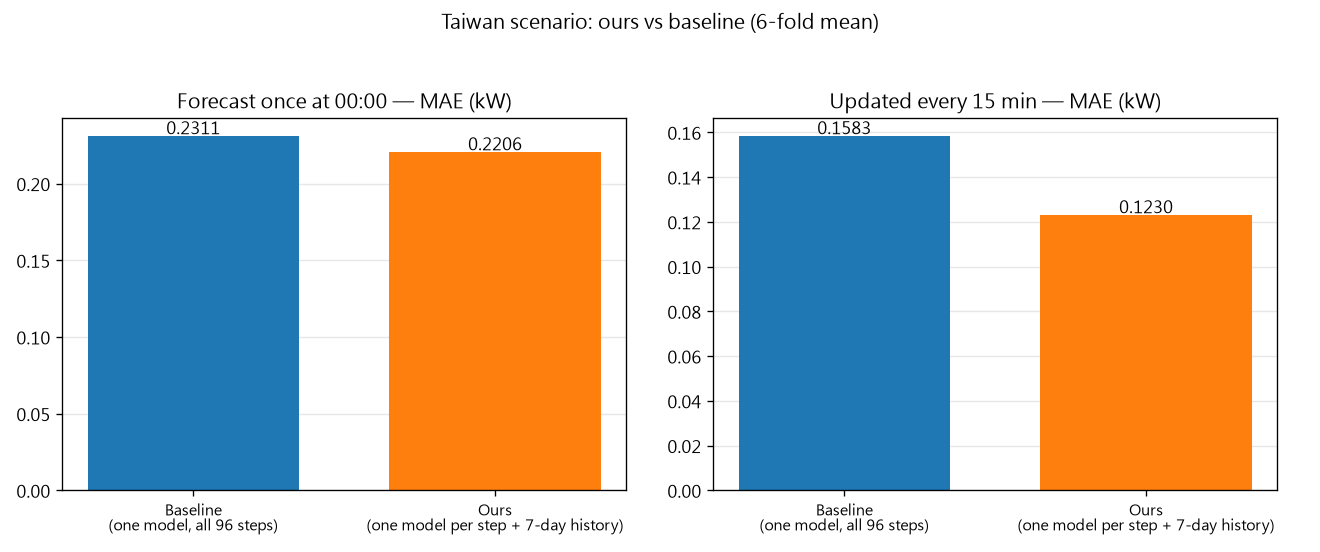
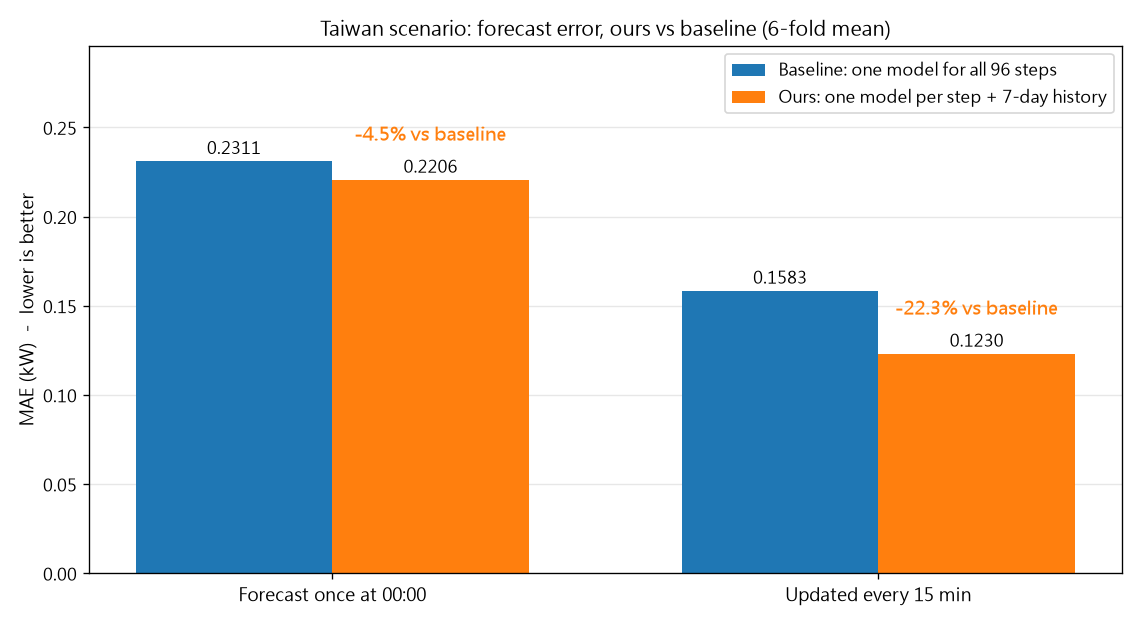
compare.png: single grouped bar chart with shared axis and improvement labels

Changed region(s): [[0.0, 0.0308, 1.0, 0.9855]]

diff --git a/index.html b/index.html
@@ -58,7 +58,7 @@
 <p class="muted" style="margin:-6px 0 12px;color:#666;font-size:13px">點任一張圖可放大檢視；放大後再點一次或按 Esc 關閉，右上角可開啟原始檔。</p>
 <div class="gallery">
   <figure class="wide"><img src="results/figures/folds_curve.png" alt="folds_curve"><figcaption>6 折各取一個代表日：實際 vs 每天 00:00 預測一次 vs 每 15 分鐘更新</figcaption></figure>
-  <figure class="wide"><img src="results/figures/compare.png" alt="compare"><figcaption>本方法 vs 基準：「每天 00:00 預測一次」與「每 15 分鐘更新」的 MAE（6 折平均）</figcaption></figure>
+  <figure class="wide"><img src="results/figures/compare.png" alt="compare"><figcaption>本方法 vs 基準的預測誤差 MAE（越低越好，6 折平均）：藍＝基準（一個模型一次預測 96 步），橘＝本方法（每一步各自一個模型＋7 天資訊）；每 15 分鐘更新時改善 22.3%</figcaption></figure>
   <figure class="wide"><img src="results/figures/feature_importance_bar.png" alt="feature_importance_bar"><figcaption>特徵重要度長條圖</figcaption></figure>
   <figure class="wide"><img src="results/figures/feature_importance_detail.png" alt="feature_importance_detail"><figcaption>個別特徵重要度 Top-18</figcaption></figure>
   <figure class="wide"><img src="results/figures/curves_t0.png" alt="curves_t0"><figcaption>6 折代表日、每天 00:00 一次預測整天：實際 vs 基準 vs 本方法</figcaption></figure>

diff --git a/results/README.md b/results/README.md
@@ -15,7 +15,7 @@
 | `folds_curve.png` | 6 折各取一個代表日：實際 vs 每天 00:00 預測一次 vs 每 15 分鐘更新 |
 | `feature_importance_bar.png` | Feature importance at 1 / 24 / 96 steps ahead (grouped) |
 | `feature_importance_detail.png` | Top-18 features at 1 / 24 / 96 steps ahead |
-| `compare.png` | 本方法 vs 基準：「每天 00:00 預測一次」與「每 15 分鐘更新」的 MAE（6 折平均） |
+| `compare.png` | 本方法 vs 基準的 MAE（越低越好，6 折平均）：兩種評估方式各一組，橘色標示相對基準的改善幅度 |
 | `curves_t0.png` | 6 折代表日、每天 00:00 一次預測整天：實際 vs 基準 vs 本方法 |
 | `rolling_snapshots.png` | 日內滾動 6 個時點快照 |
 | `rolling.gif` | 日內滾動動畫（每 15 分刷新未來 24h） |
